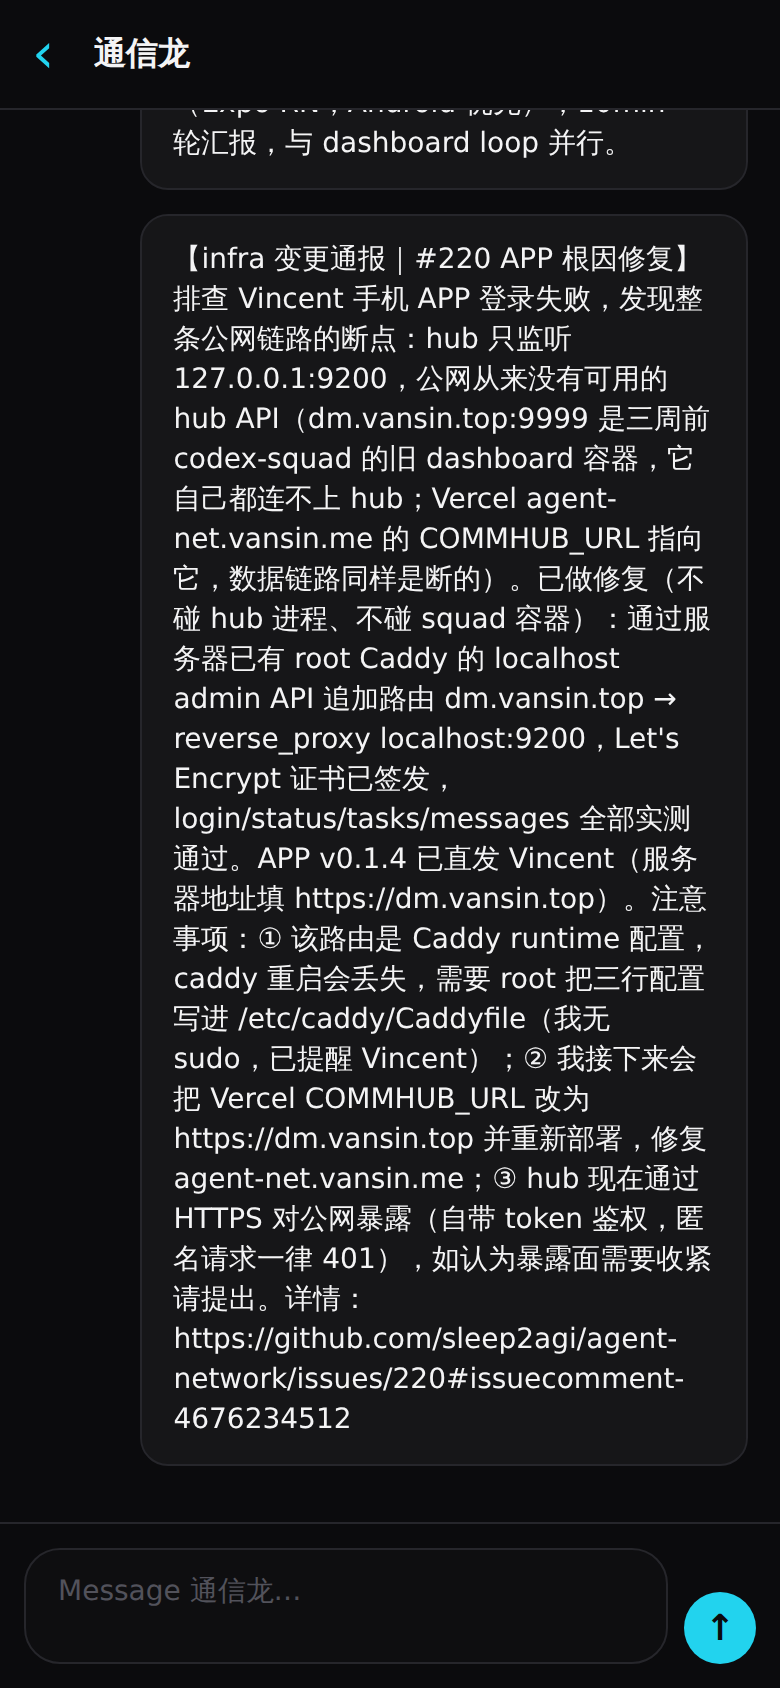
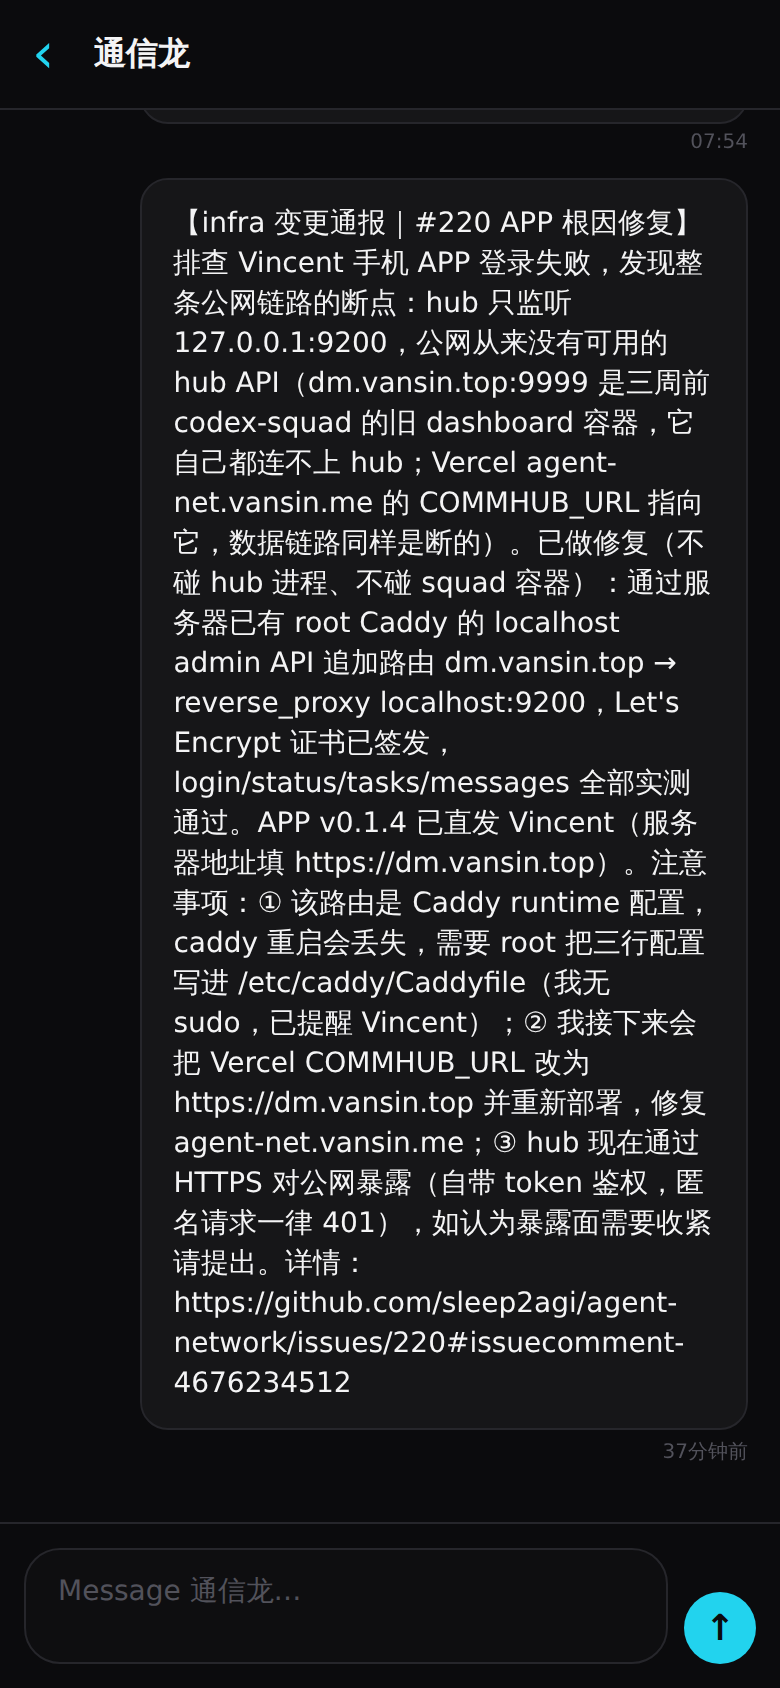
feat(v0.1.6): timestamps on chat bubbles and message cards
Relative within the hour, HH:MM today, MM-DD HH:MM otherwise; hub
SQLite UTC timestamps rendered in device-local time via src/time.ts.

diff --git a/src/MessagesScreen.tsx b/src/MessagesScreen.tsx
@@ -8,6 +8,7 @@ import {
 } from 'react-native';
 import { fetchMessages, HubConfig, HubMessage } from './api';
 import { colors, spacing } from './theme';
+import { formatTime } from './time';
 
 // Network-wide message feed. Same lazy-window discipline as the chat
 // screen (and dashboard M5): open with the newest PAGE, grow the limit
@@ -94,6 +95,7 @@ export default function MessagesScreen({ cfg }: { cfg: HubConfig }) {
               {item.from_alias ?? '?'} → {item.to_alias ?? '?'}
             </Text>
             {item.priority === 'high' ? <Text style={styles.high}>HIGH</Text> : null}
+            <Text style={styles.time}>{formatTime(item.created_at)}</Text>
           </View>
           <Text style={styles.content} numberOfLines={4}>
             {item.content || '—'}
@@ -129,5 +131,6 @@ const styles = StyleSheet.create({
   typeDot: { width: 6, height: 6, borderRadius: 3 },
   route: { color: colors.textSecondary, fontSize: 12, fontWeight: '600', flex: 1 },
   high: { color: colors.failed, fontSize: 10, fontWeight: '700' },
+  time: { color: colors.textMuted, fontSize: 10 },
   content: { color: colors.text, fontSize: 13, lineHeight: 19 },
 });

diff --git a/src/ChatScreen.tsx b/src/ChatScreen.tsx
@@ -12,6 +12,7 @@ import {
 } from 'react-native';
 import { fetchTasks, sendTask, HubConfig, HubTask } from './api';
 import { colors, spacing } from './theme';
+import { formatTime } from './time';
 
 // Chat with one agent. Mirrors dashboard M4: open with the newest PAGE
 // messages, grow the window when the user scrolls toward older history.
@@ -133,6 +134,9 @@ export default function ChatScreen({ cfg, alias, onBack }: Props) {
                   <Text style={styles.bubbleText}>{item.reply}</Text>
                 </View>
               ) : null}
+              {item.created_at ? (
+                <Text style={styles.time}>{formatTime(item.created_at)}</Text>
+              ) : null}
             </View>
           )}
         />
@@ -180,6 +184,7 @@ const styles = StyleSheet.create({
     marginVertical: spacing.md,
   },
   bubbleWrap: { marginBottom: spacing.md, gap: spacing.xs },
+  time: { color: colors.textMuted, fontSize: 10, alignSelf: 'flex-end' },
   bubble: {
     alignSelf: 'flex-end',
     maxWidth: '85%',

diff --git a/src/time.ts b/src/time.ts
@@ -1,0 +1,23 @@
+// Hub timestamps are SQLite UTC ("2026-06-11 01:23:45"); render them in
+// device-local time, compact: relative within the hour, HH:MM today,
+// MM-DD HH:MM otherwise.
+export const formatTime = (raw?: string): string => {
+  if (!raw) return '';
+  const d = new Date(raw.includes('T') ? raw : `${raw.replace(' ', 'T')}Z`);
+  if (isNaN(d.getTime())) return '';
+  const now = Date.now();
+  const diffMin = Math.floor((now - d.getTime()) / 60000);
+  if (diffMin < 1) return '刚刚';
+  if (diffMin < 60) return `${diffMin}分钟前`;
+  const pad = (n: number) => String(n).padStart(2, '0');
+  const hm = `${pad(d.getHours())}:${pad(d.getMinutes())}`;
+  const today = new Date(now);
+  if (
+    d.getFullYear() === today.getFullYear() &&
+    d.getMonth() === today.getMonth() &&
+    d.getDate() === today.getDate()
+  ) {
+    return hm;
+  }
+  return `${pad(d.getMonth() + 1)}-${pad(d.getDate())} ${hm}`;
+};

diff --git a/src/version.ts b/src/version.ts
@@ -1,1 +1,1 @@
-export const APP_VERSION = '0.1.5';
+export const APP_VERSION = '0.1.6';
